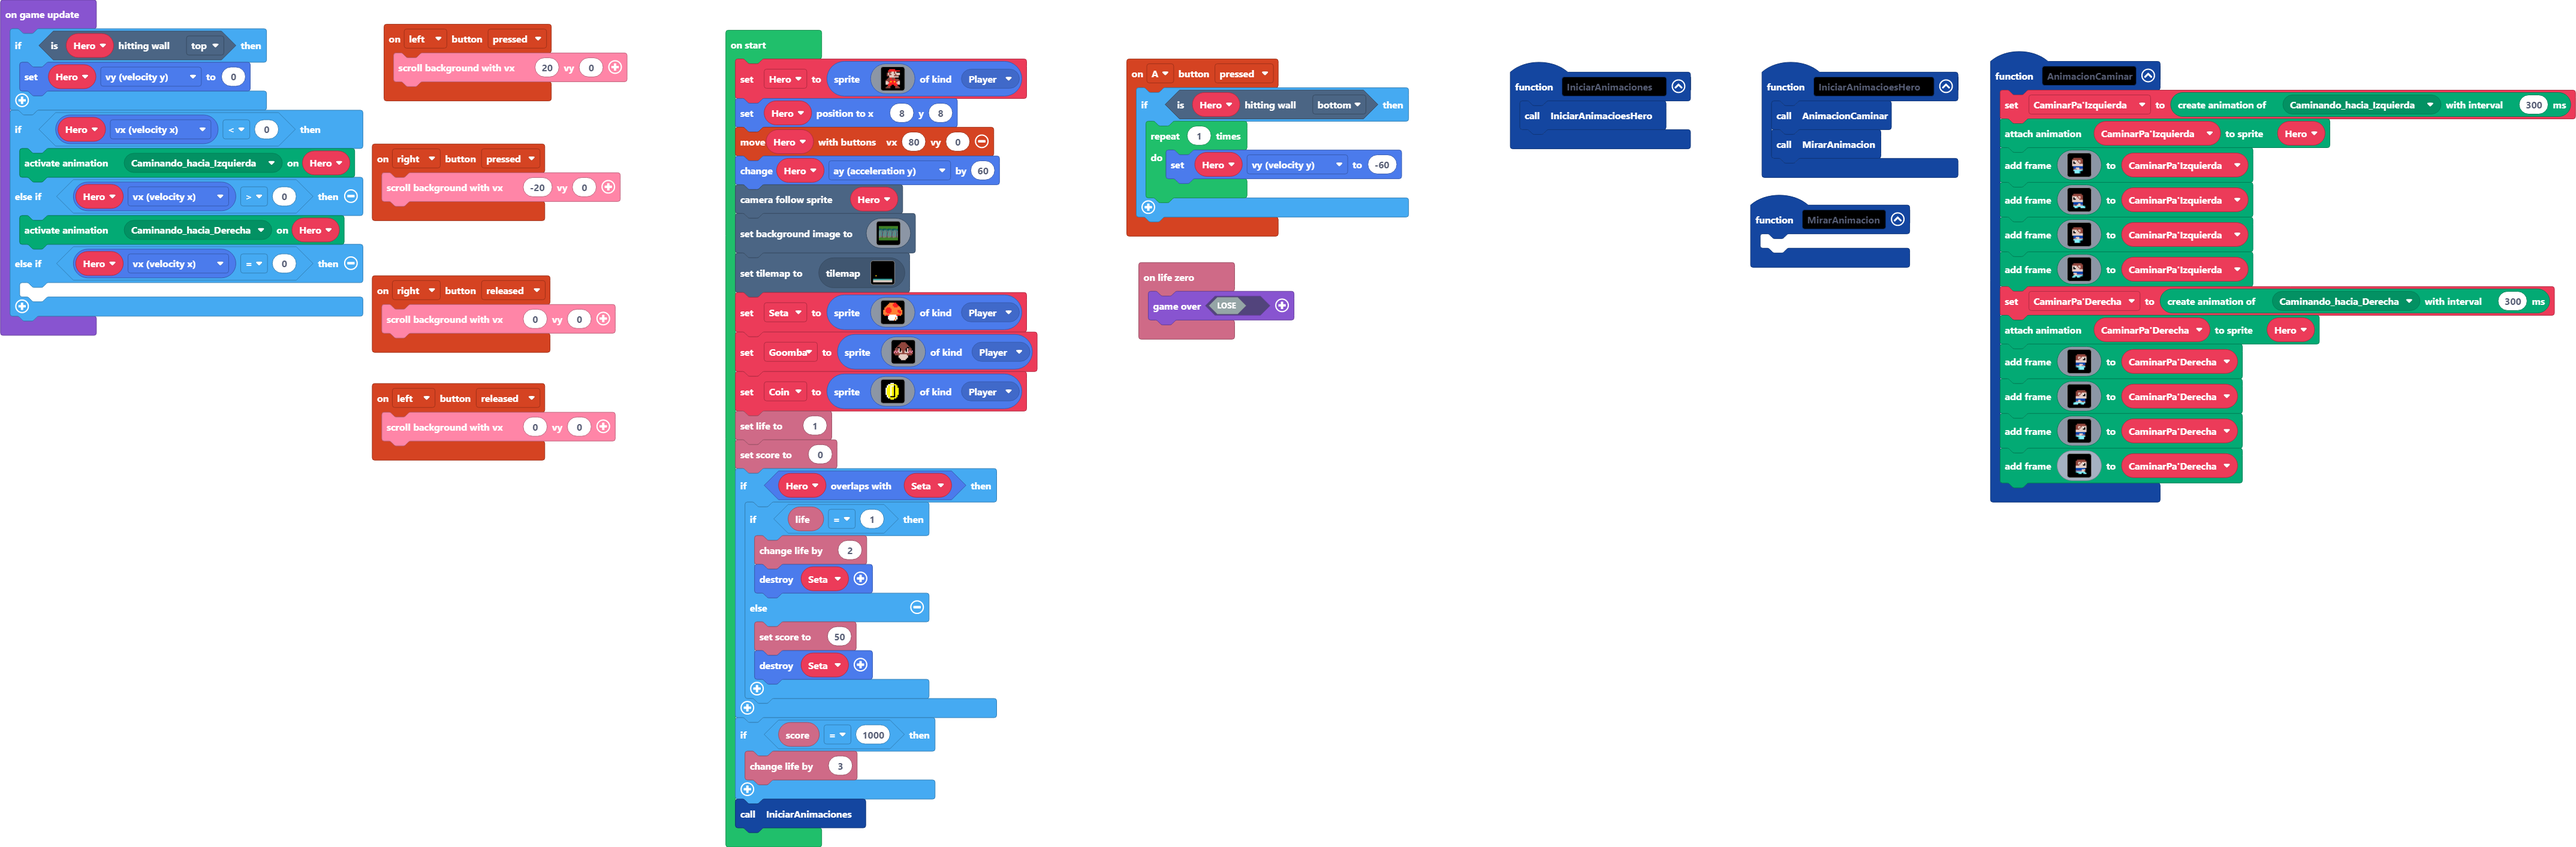
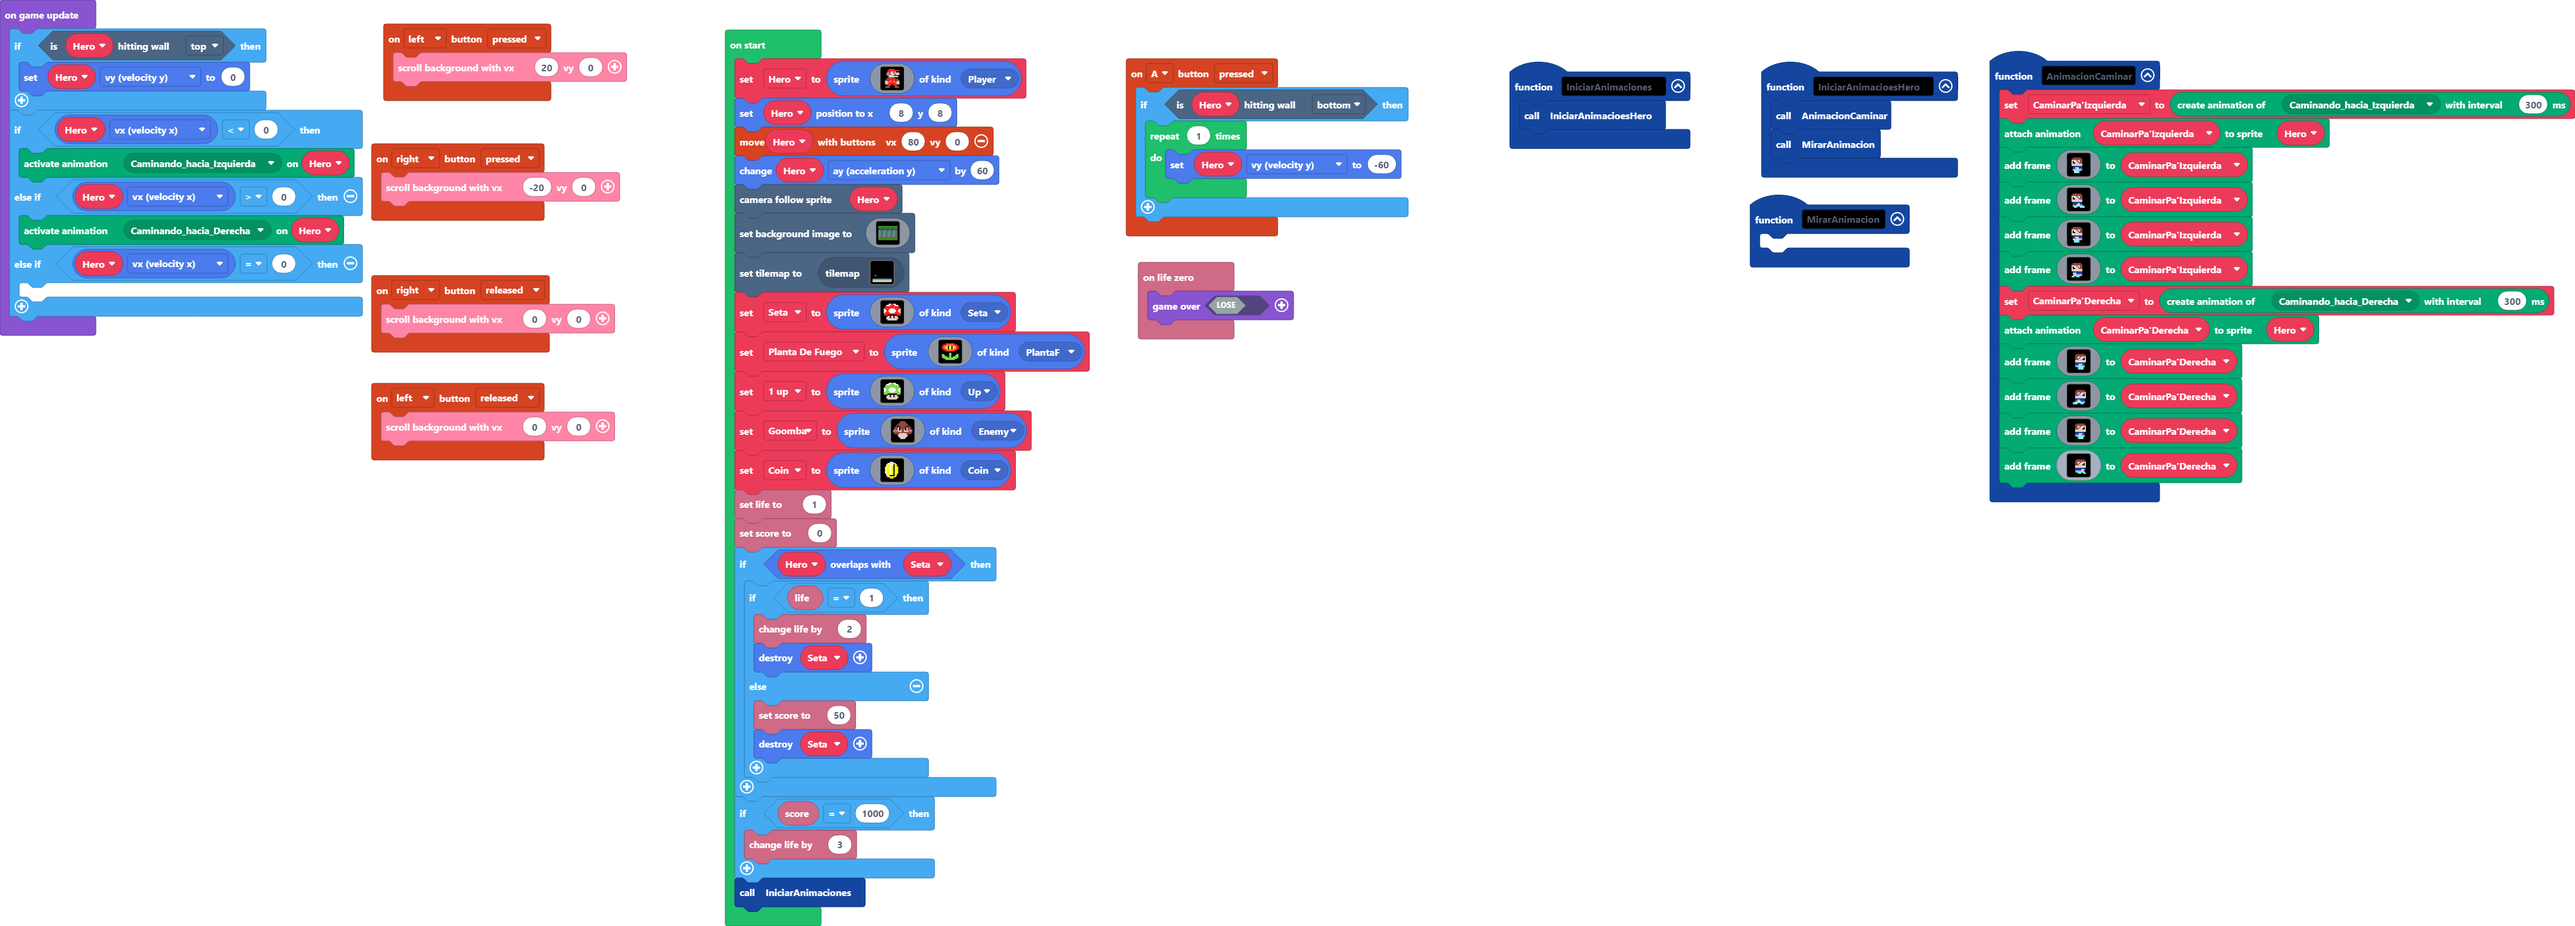
Update main.blocks, main.ts

Changed region(s): [[0.2807, 0.0311, 0.655, 0.9958], [0.0, 0.0, 0.2495, 0.5601], [0.655, 0.0622, 1.0, 0.5912]]

diff --git a/main.ts b/main.ts
@@ -5,6 +5,12 @@ enum ActionKind {
     Caminando_hacia_Derecha,
     Caminando_hacia_Izquierda
 }
+namespace SpriteKind {
+    export const Coin = SpriteKind.create()
+    export const Up = SpriteKind.create()
+    export const PlantaF = SpriteKind.create()
+    export const Seta = SpriteKind.create()
+}
 function IniciarAnimaciones () {
     IniciarAnimacioesHero()
 }
@@ -336,23 +342,59 @@ scene.setBackgroundImage(img`
     `)
 tiles.setCurrentTilemap(tilemap`level3`)
 let Seta = sprites.create(img`
-    . . . . . 4 4 4 4 2 2 . . . . . 
-    . . . . 4 4 4 4 2 2 2 2 . . . . 
-    . . . 4 4 4 4 4 2 2 2 2 2 . . . 
-    . . 4 4 4 4 4 4 4 2 2 2 4 4 . . 
-    . 4 4 2 2 2 4 4 4 4 4 4 4 4 4 . 
-    . 4 2 2 2 2 2 4 4 4 4 4 4 4 4 . 
-    4 4 2 2 2 2 2 4 4 4 4 4 2 2 4 4 
-    4 4 2 2 2 2 2 4 4 4 4 4 2 2 2 4 
-    4 4 4 2 2 2 4 4 4 4 4 4 4 2 2 4 
-    4 4 4 4 4 4 4 4 4 4 4 4 4 4 4 4 
-    . 4 2 2 2 1 1 1 1 1 1 2 2 2 4 . 
-    . . . . 1 1 1 1 1 1 1 1 . . . . 
-    . . . . 1 1 1 1 1 1 4 1 . . . . 
-    . . . . 1 1 1 1 1 1 4 1 . . . . 
-    . . . . . 1 1 1 1 4 1 . . . . . 
-    . . . . . . . . . . . . . . . . 
-    `, SpriteKind.Player)
+    . . . . . f f f f f f . . . . . 
+    . . . f f 1 1 2 2 1 1 f f . . . 
+    . . f 1 1 1 2 2 2 2 1 1 1 f . . 
+    . f 2 2 2 2 2 2 2 2 2 2 2 2 f . 
+    . f 2 2 2 2 2 2 2 2 2 2 2 2 f . 
+    f 1 2 2 2 2 1 1 1 1 2 2 2 2 1 f 
+    f 1 1 2 2 1 1 1 1 1 1 2 2 1 1 f 
+    f 1 1 2 2 1 1 1 1 1 1 2 2 1 1 f 
+    f 1 2 2 2 2 1 1 1 1 2 2 2 2 1 f 
+    f 2 2 2 2 2 2 2 2 2 2 2 2 2 2 f 
+    f 2 2 2 f f f f f f f f 2 2 2 f 
+    . f f f d d f d d f d d f f f . 
+    . . f d d d f d d f d d d f . . 
+    . . f d d d d d d d d d d f . . 
+    . . . f d d d d d d d d f . . . 
+    . . . . f f f f f f f f . . . . 
+    `, SpriteKind.Seta)
+let Planta_De_Fuego = sprites.create(img`
+    . . . . f f f f f f f f . . . . 
+    . . f f 2 2 2 2 2 2 2 2 f f . . 
+    . f 2 2 2 4 4 4 4 4 4 2 2 2 f . 
+    f 2 2 4 4 5 f 5 5 f 5 4 4 2 2 f 
+    f 2 2 4 5 1 f 1 1 f 1 5 4 2 2 f 
+    f 2 2 4 4 5 f 5 5 f 5 4 4 2 2 f 
+    . f 2 2 2 4 4 4 4 4 4 2 2 2 f . 
+    . . f f 2 2 2 2 2 2 2 2 f f . . 
+    . . . f f f f f f f f f f . . . 
+    . f f . . . f 7 7 f . . . f f . 
+    f 7 7 f f . f 7 7 f . f f 7 7 f 
+    f 7 7 7 f f f 7 7 f f f 7 7 7 f 
+    f 7 7 7 7 7 f 7 7 f 7 7 7 7 7 f 
+    . f 7 7 7 7 7 7 7 7 7 7 7 7 f . 
+    . . f f 7 7 7 7 7 7 7 7 f f . . 
+    . . . . f f f f f f f f . . . . 
+    `, SpriteKind.PlantaF)
+let _1_up = sprites.create(img`
+    . . . . . f f f f f f . . . . . 
+    . . . f f 1 1 7 7 1 1 f f . . . 
+    . . f 1 1 1 7 7 7 7 1 1 1 f . . 
+    . f 7 7 7 7 7 7 7 7 7 7 7 7 f . 
+    . f 7 7 7 7 7 7 7 7 7 7 7 7 f . 
+    f 1 7 7 7 7 1 1 1 1 7 7 7 7 1 f 
+    f 1 1 7 7 1 1 1 1 1 1 7 7 1 1 f 
+    f 1 1 7 7 1 1 1 1 1 1 7 7 1 1 f 
+    f 1 7 7 7 7 1 1 1 1 7 7 7 7 1 f 
+    f 7 7 7 7 7 7 7 7 7 7 7 7 7 7 f 
+    f 7 7 7 f f f f f f f f 7 7 7 f 
+    . f f f d d f d d f d d f f f . 
+    . . f d d d f d d f d d d f . . 
+    . . f d d d d d d d d d d f . . 
+    . . . f d d d d d d d d f . . . 
+    . . . . f f f f f f f f . . . . 
+    `, SpriteKind.Up)
 let Goomba = sprites.create(img`
     . . . . . . e e e e . . . . . . 
     . . . . . e e e e e e . . . . . 
@@ -370,7 +412,7 @@ let Goomba = sprites.create(img`
     . . f f f d d d d d d f f f . . 
     . f f f f f d d d d f f f f f . 
     . f f f f f f . . f f f f f f . 
-    `, SpriteKind.Player)
+    `, SpriteKind.Enemy)
 let Coin = sprites.create(img`
     . . . . . f f f f f f . . . . . 
     . . . f f f 1 1 1 f f f f . . . 
@@ -388,7 +430,7 @@ let Coin = sprites.create(img`
     . . f f 1 5 5 5 5 5 5 f f . . . 
     . . . f f f 5 5 5 f f f f . . . 
     . . . . . f f f f f . . . . . . 
-    `, SpriteKind.Player)
+    `, SpriteKind.Coin)
 info.setLife(1)
 info.setScore(0)
 if (Hero.overlapsWith(Seta)) {
